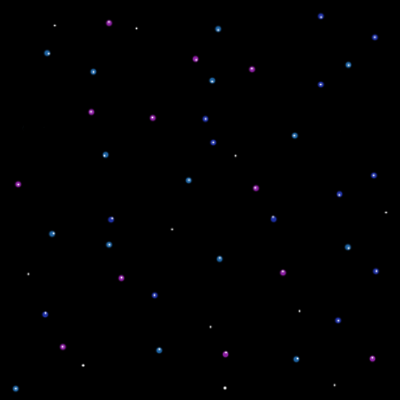
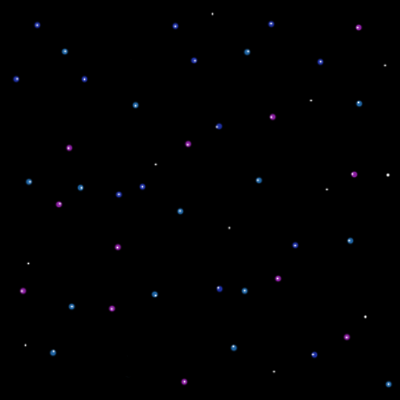
vertical orientation

diff --git a/.vscode/.ropeproject/config.py b/.vscode/.ropeproject/config.py
@@ -1,0 +1,114 @@
+# The default ``config.py``
+# flake8: noqa
+
+
+def set_prefs(prefs):
+    """This function is called before opening the project"""
+
+    # Specify which files and folders to ignore in the project.
+    # Changes to ignored resources are not added to the history and
+    # VCSs.  Also they are not returned in `Project.get_files()`.
+    # Note that ``?`` and ``*`` match all characters but slashes.
+    # '*.pyc': matches 'test.pyc' and 'pkg/test.pyc'
+    # 'mod*.pyc': matches 'test/mod1.pyc' but not 'mod/1.pyc'
+    # '.svn': matches 'pkg/.svn' and all of its children
+    # 'build/*.o': matches 'build/lib.o' but not 'build/sub/lib.o'
+    # 'build//*.o': matches 'build/lib.o' and 'build/sub/lib.o'
+    prefs['ignored_resources'] = ['*.pyc', '*~', '.ropeproject',
+                                  '.hg', '.svn', '_svn', '.git', '.tox']
+
+    # Specifies which files should be considered python files.  It is
+    # useful when you have scripts inside your project.  Only files
+    # ending with ``.py`` are considered to be python files by
+    # default.
+    # prefs['python_files'] = ['*.py']
+
+    # Custom source folders:  By default rope searches the project
+    # for finding source folders (folders that should be searched
+    # for finding modules).  You can add paths to that list.  Note
+    # that rope guesses project source folders correctly most of the
+    # time; use this if you have any problems.
+    # The folders should be relative to project root and use '/' for
+    # separating folders regardless of the platform rope is running on.
+    # 'src/my_source_folder' for instance.
+    # prefs.add('source_folders', 'src')
+
+    # You can extend python path for looking up modules
+    # prefs.add('python_path', '~/python/')
+
+    # Should rope save object information or not.
+    prefs['save_objectdb'] = True
+    prefs['compress_objectdb'] = False
+
+    # If `True`, rope analyzes each module when it is being saved.
+    prefs['automatic_soa'] = True
+    # The depth of calls to follow in static object analysis
+    prefs['soa_followed_calls'] = 0
+
+    # If `False` when running modules or unit tests "dynamic object
+    # analysis" is turned off.  This makes them much faster.
+    prefs['perform_doa'] = True
+
+    # Rope can check the validity of its object DB when running.
+    prefs['validate_objectdb'] = True
+
+    # How many undos to hold?
+    prefs['max_history_items'] = 32
+
+    # Shows whether to save history across sessions.
+    prefs['save_history'] = True
+    prefs['compress_history'] = False
+
+    # Set the number spaces used for indenting.  According to
+    # :PEP:`8`, it is best to use 4 spaces.  Since most of rope's
+    # unit-tests use 4 spaces it is more reliable, too.
+    prefs['indent_size'] = 4
+
+    # Builtin and c-extension modules that are allowed to be imported
+    # and inspected by rope.
+    prefs['extension_modules'] = []
+
+    # Add all standard c-extensions to extension_modules list.
+    prefs['import_dynload_stdmods'] = True
+
+    # If `True` modules with syntax errors are considered to be empty.
+    # The default value is `False`; When `False` syntax errors raise
+    # `rope.base.exceptions.ModuleSyntaxError` exception.
+    prefs['ignore_syntax_errors'] = False
+
+    # If `True`, rope ignores unresolvable imports.  Otherwise, they
+    # appear in the importing namespace.
+    prefs['ignore_bad_imports'] = False
+
+    # If `True`, rope will insert new module imports as
+    # `from <package> import <module>` by default.
+    prefs['prefer_module_from_imports'] = False
+
+    # If `True`, rope will transform a comma list of imports into
+    # multiple separate import statements when organizing
+    # imports.
+    prefs['split_imports'] = False
+
+    # If `True`, rope will remove all top-level import statements and
+    # reinsert them at the top of the module when making changes.
+    prefs['pull_imports_to_top'] = True
+
+    # If `True`, rope will sort imports alphabetically by module name instead
+    # of alphabetically by import statement, with from imports after normal
+    # imports.
+    prefs['sort_imports_alphabetically'] = False
+
+    # Location of implementation of
+    # rope.base.oi.type_hinting.interfaces.ITypeHintingFactory In general
+    # case, you don't have to change this value, unless you're an rope expert.
+    # Change this value to inject you own implementations of interfaces
+    # listed in module rope.base.oi.type_hinting.providers.interfaces
+    # For example, you can add you own providers for Django Models, or disable
+    # the search type-hinting in a class hierarchy, etc.
+    prefs['type_hinting_factory'] = (
+        'rope.base.oi.type_hinting.factory.default_type_hinting_factory')
+
+
+def project_opened(project):
+    """This function is called after opening the project"""
+    # Do whatever you like here!

diff --git a/main.py b/main.py
@@ -40,8 +40,8 @@ class Laser:
     def move(self, vel):
         self.y += vel
 
-    def off_screen(self, width):
-        return (self.x > width or self.x <= -50)
+    def off_screen(self, height):
+        return not(self.y < height and self.y >= 0)
     
     def collision(self, obj):
         return game.collide(self, obj)
@@ -67,7 +67,7 @@ class Ship:
         self.cooldown()
         for laser in self.lasers:
             laser.move(vel)
-            if laser.off_screen(WIDTH):
+            if laser.off_screen(HEIGHT):
                 self.lasers.remove(laser)
             elif laser.collision(obj):
                 obj.health -= 10
@@ -134,7 +134,7 @@ class Enemy(Ship):
         self.mask = pygame.mask.from_surface(self.ship_img)
 
     def move(self, vel):
-        self.y -= vel
+        self.y += vel
 
     def shoot(self):
         if self.cool_down_counter == 0:
@@ -164,7 +164,7 @@ class Game:
         
         self.mainmenu = MainMenu()
         self.endmenu = EndMenu()
-        self.player = Player(100, 300)
+        self.player = Player(300, 630)
         self.clock = pygame.time.Clock()
 
         self.lost_count = 0
@@ -192,7 +192,7 @@ class Game:
         self.laser_vel = 8
         self.mainmenu = MainMenu()
         self.endmenu = EndMenu()
-        self.player = Player(100, 300)
+        self.player = player = Player(300, 630)
         self.clock = pygame.time.Clock()
         self.lost_count = 0
         self.reset_keys()
@@ -288,7 +288,7 @@ class Game:
             self.level += 1
             self.wave_length += 5
             for i in range(self.wave_length):
-                enemy = Enemy(random.randrange(WIDTH, WIDTH + 1000), random.randrange(100, HEIGHT - 100), random.choice(["red", "blue", "green"]))
+                enemy = Enemy(random.randrange(50, WIDTH-100), random.randrange(-1500, -100), random.choice(["red", "blue", "green"]))
                 self.enemies.append(enemy)
 
     def enemy_behaviour(self):
@@ -303,7 +303,7 @@ class Game:
                 self.player.health -= 10
                 self.enemies.remove(enemy)
                 
-            elif enemy.x - enemy.get_width() < -50:
+            elif enemy.y + enemy.get_height() > HEIGHT:
                 self.lives -= 1
                 self.enemies.remove(enemy)
     
